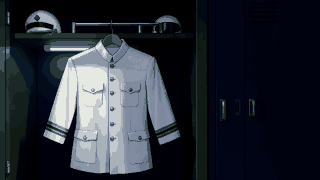
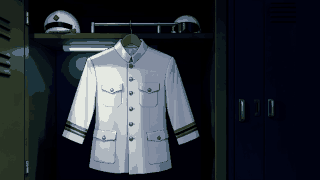
feat(locker): keep the locker door in view (doc 31)
- The locker picture moves 96 px left instead of 172 (owner's option B): the open door's edge with its vents stays
  visible, the tunic's right sleeve just clears the card panel
- Boards, wings, medals, ribbons, name plate, tube flicker and dust move with it (geometry + 76 px)

diff --git a/src/render/locker/plate.ts b/src/render/locker/plate.ts
@@ -1,22 +1,22 @@
 import lockerUrl from '../../assets/locker/locker.png?url';
 
 // Locker (doc 31): the backdrop is the owner's pick of the generated locker pictures (v4 on the 320 × 180 grid with
-// 32 flat colours, dev/locker-plate.py): the open locker with cap, helmet and the bare dress-white tunic on its
+// 32 flat colours, moved 96 px left with the door's edge in view, dev/locker-plate.py): the open locker with cap, helmet and the bare dress-white tunic on its
 // hanger. Everything the game adds (boards, wings, medals, ribbons, name plate, flicker, dust) is placed on it with
 // the geometry below, measured on the picture (logical px; one art px = 4).
 
 /** Logical px per art px of the picture. */
 export const PLATE_G = 4;
 
-/** The tunic: its centre line (the buttons; the collar runs x 388 … 508) and its shoulder seams — where the boards
+/** The tunic: its centre line (the buttons; the collar runs x 464 … 584) and its shoulder seams — where the boards
  *  start beside the collar (centre ± collarHalf), their top edge there, how far they run out to the sleeve and how
  *  much the seam drops over that run (measured column by column on the right shoulder, mirrored for the left). */
-export const TUNIC = { centreX: 448, collarHalf: 60, boardTop: 184, boardLen: 92, boardDrop: 38 } as const;
+export const TUNIC = { centreX: 524, collarHalf: 60, boardTop: 184, boardLen: 92, boardDrop: 38 } as const;
 /** The name plate above the viewer's-left breast pocket: its centre x and top. */
-export const NAME_PLATE = { cx: 360, y: 306 } as const;
+export const NAME_PLATE = { cx: 436, y: 306 } as const;
 /** The lit inside of the locker (dimmed while the tube flickers off) and the tube light under the shelf. */
-export const INSIDE = { x: 40, y: 0, w: 740, h: 720 } as const;
-export const TUBE = { x: 192, y: 188, w: 208, h: 8 } as const;
+export const INSIDE = { x: 116, y: 0, w: 690, h: 720 } as const;
+export const TUBE = { x: 268, y: 188, w: 208, h: 8 } as const;
 
 let img: HTMLImageElement | null = null;
 

diff --git a/src/game/uniform-layout.ts b/src/game/uniform-layout.ts
@@ -59,8 +59,8 @@ export interface ChestFrame {
 
 /** The tunic in the locker picture (src/render/locker/plate.ts): its breast pockets, collar and shoulders, measured. */
 export const LOCKER_CHEST: ChestFrame = {
-  left: 464, right: 584, pocketTop: 346, minTop: 226, medalSize: 48, medalsPerRow: 5, gap: 4, rowOverlap: 0.3, wingsH: 18,
-  ribbonCentre: 360, ribbonBottom: 300, ribbonW: 40, ribbonH: 13, ribbonsPerRow: 3,
+  left: 540, right: 660, pocketTop: 346, minTop: 226, medalSize: 48, medalsPerRow: 5, gap: 4, rowOverlap: 0.3, wingsH: 18,
+  ribbonCentre: 436, ribbonBottom: 300, ribbonW: 40, ribbonH: 13, ribbonsPerRow: 3,
 };
 
 /** Each shape's art in the 64 × 96 medal frame: half-width and bottom (matches src/render/medals). */

diff --git a/dev/locker-plate.py b/dev/locker-plate.py
@@ -9,8 +9,9 @@ import numpy as np
 from PIL import Image
 
 W, H, COLORS = 320, 180, 32
-# Logical px the picture moves left (a whole number of art px: 43 x 4) so the tunic's centre sits at x ~ 450.
-SHIFT = 172
+# Logical px the picture moves left (a whole number of art px: 24 x 4): the tunic's centre lands at x 524, its right
+# sleeve just left of the card panel, and the open door's edge with its vents stays in view (owner: option B).
+SHIFT = 96
 
 
 def main(src, dst):

diff --git a/.mdd/docs/31-locker-uniform.md b/.mdd/docs/31-locker-uniform.md
@@ -93,17 +93,19 @@ generated close-up of the open locker (cap and helmet on the shelf, the tube lig
 stand-up collar on its hanger, closed lockers in shadow on the right; ComfyUI "Top Gun pixel scene 16:9", run 5) put on
 the **320 × 180 grid with 32 flat colours** — the same chunky look as the ceremony (doc 25).
 
-- `dev/locker-plate.py` moves the picture 172 logical px (43 art px) left, so the tunic's centre (x 440) stays left
-  of the card panel, fills the uncovered right edge with the shadow lockers' dark, downscales by area and quantises:
-  `src/assets/locker/locker.png` (9 KB). `src/render/locker/plate.ts` draws it at exactly 4 logical px per art px
-  with hard edges and holds the geometry measured on it.
-- **Measured on the picture** (logical): the tunic's centre line (buttons) x 448, the collar x 388 … 508; the shoulder
-  seams from beside the collar (x 504, top edge y 188 on the right; mirrored on the left) down to the sleeves
-  (x ≈ 600, y ≈ 228) — measured column by column on the right shoulder (the tube light sits behind the left one); breast pockets x 320 … 400 (viewer's left) and 480 … 600 (viewer's right), flaps from
-  y ≈ 330; tube light x 192 … 400 at y 188; the lit inside x 40 … 780.
+- `dev/locker-plate.py` moves the picture 96 logical px (24 art px) left — the tunic's right sleeve just clears the
+  card panel and the open door's edge with its vents stays in view on the left (owner, 2026-10-28, picked from two
+  mock-ups: *"option B"*; 172 px first hid the door) — fills the uncovered right edge (under the card) with the shadow
+  lockers' dark, downscales by area and quantises: `src/assets/locker/locker.png` (9 KB). `src/render/locker/plate.ts`
+  draws it at exactly 4 logical px per art px with hard edges and holds the geometry measured on it.
+- **Measured on the picture** (logical, at the 96 px shift): the tunic's centre line (buttons) x 524, the collar
+  x 464 … 584; the shoulder seams from beside the collar (x 580, top edge y 188 on the right; mirrored on the left)
+  down to the sleeves (x ≈ 676, y ≈ 228) — measured column by column on the right shoulder (the tube light sits behind
+  the left one); breast pockets x 396 … 476 (viewer's left) and 556 … 676 (viewer's right), flaps from y ≈ 330; tube
+  light x 268 … 476 at y 188; the lit inside x 116 … 806.
 - **Shoulder boards** (owner: *"the shoulder insignia are not on the shoulder but hovering"*, *"still not perfectly
   aligned"*, then *"starting just slightly in the collar … shift them a mini bit up"*): they start one art px clear of
-  the collar (centre 448 ± 60) with their top edge at y 184 and run 92 px out to the sleeve along the seam's straight
+  the collar (centre 524 ± 60) with their top edge at y 184 and run 92 px out to the sleeve along the seam's straight
   slope (dropping 38 px), 16 px deep, on the picture's 4-px grid. Before,
   they hung at the old jacket's y 162; the first fix assumed centre 440 and started on the collar itself.
 - The code-drawn locker set, props and jacket (`set.ts`, `props.ts`, `jacket.ts`) and the jacket's sway are gone; the
@@ -114,8 +116,8 @@ the **320 × 180 grid with 32 flat colours** — the same chunky look as the cer
 `uniformLayout(medals, chest = LOCKER_CHEST)` → `{ slots, wings, top }`:
 
 - Input: the earned medals in catalogue order (`earnedMedals(save, goldCount(save))`) and the chest frame
-  (`LOCKER_CHEST`, measured on the locker picture: left breast x 464 … 584, medals standing at 346 — just over the
-  pocket flap — with the collar limit at 226; medals 48 logical; right breast centre 360 with the ribbon bars standing
+  (`LOCKER_CHEST`, measured on the locker picture: left breast x 540 … 660, medals standing at 346 — just over the
+  pocket flap — with the collar limit at 226; medals 48 logical; right breast centre 436 with the ribbon bars standing
   at 300 on the name plate). The picture's chest is shorter than the old jacket's (≈ 120 px from shoulder to pocket):
   two rows of medals still stand clear, a full rack (3 + 5 + 5) is court-mounted under the collar. **Chest height** (owner,
   2026-10-26: "the nametag is a bit too low, it is not on chest height"): the breast pockets, name plate, ribbon
@@ -130,7 +132,7 @@ the **320 × 180 grid with 32 flat colours** — the same chunky look as the cer
 - **Court-mounted always** (owner, 2026-10-28: *"move them closer together on both axes. They are allowed to overlap
   (they do on real uniforms). If the top row overlaps a bit the second row, and the second the third row, it should
   look nice"*): every upper row hangs over the one below by `rowOverlap` (30 %) of its height, the breast is narrowed
-  to x 464 … 584 (inside the pocket, off the sleeve — the rack had reached onto the arm), so the medals of a row
+  to the pocket's width (x 540 … 660; off the sleeve — the rack had reached onto the arm), so the medals of a row
   overlap; the rack is drawn back to front from the last slot, so upper rows and the senior medal of a row are in front,
   and the hit test takes the frontmost (earliest) slot.
   Each medal's width comes from its shape's painted art (`MEDAL_ART`, checked against `paintMedal` in the test);
